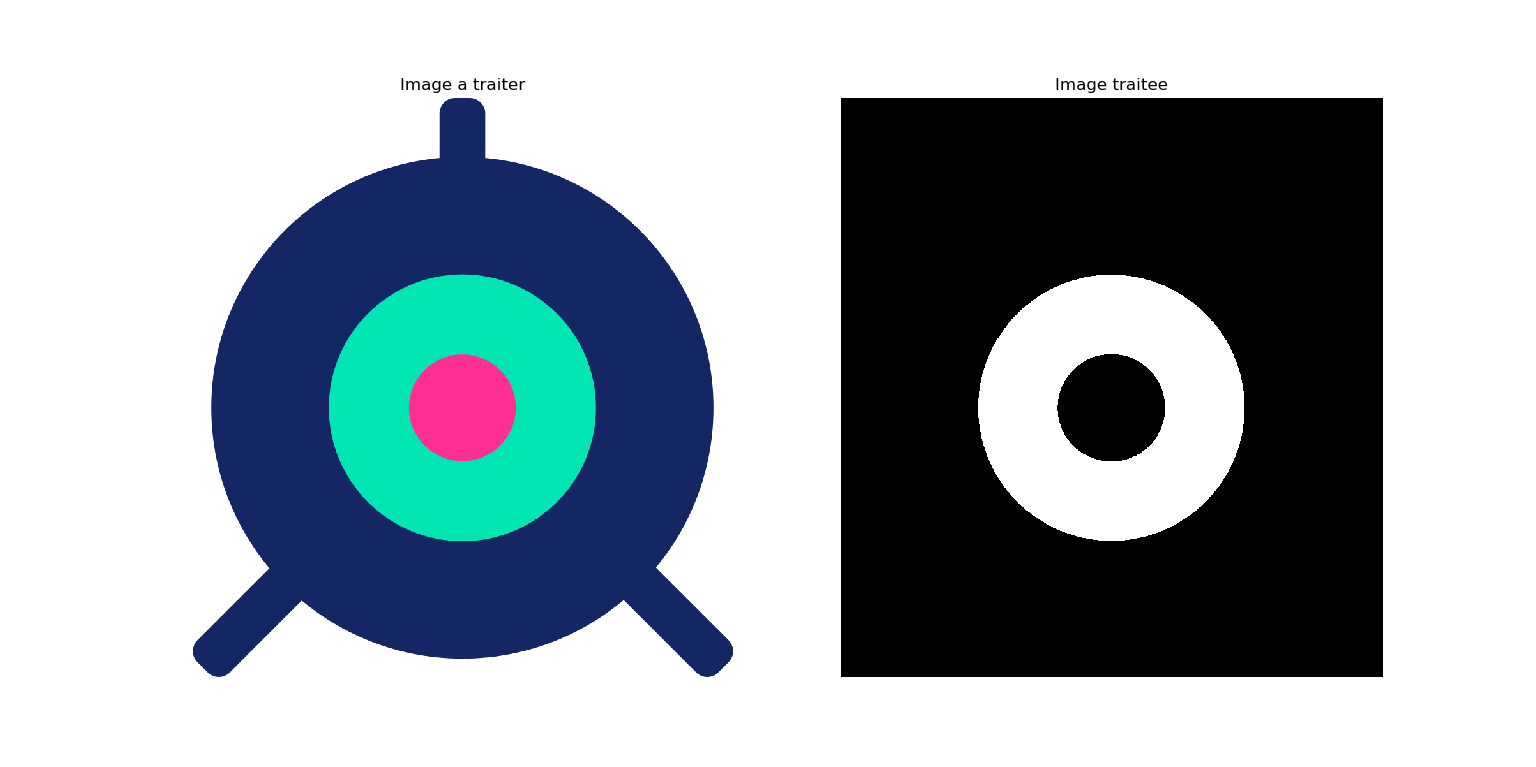
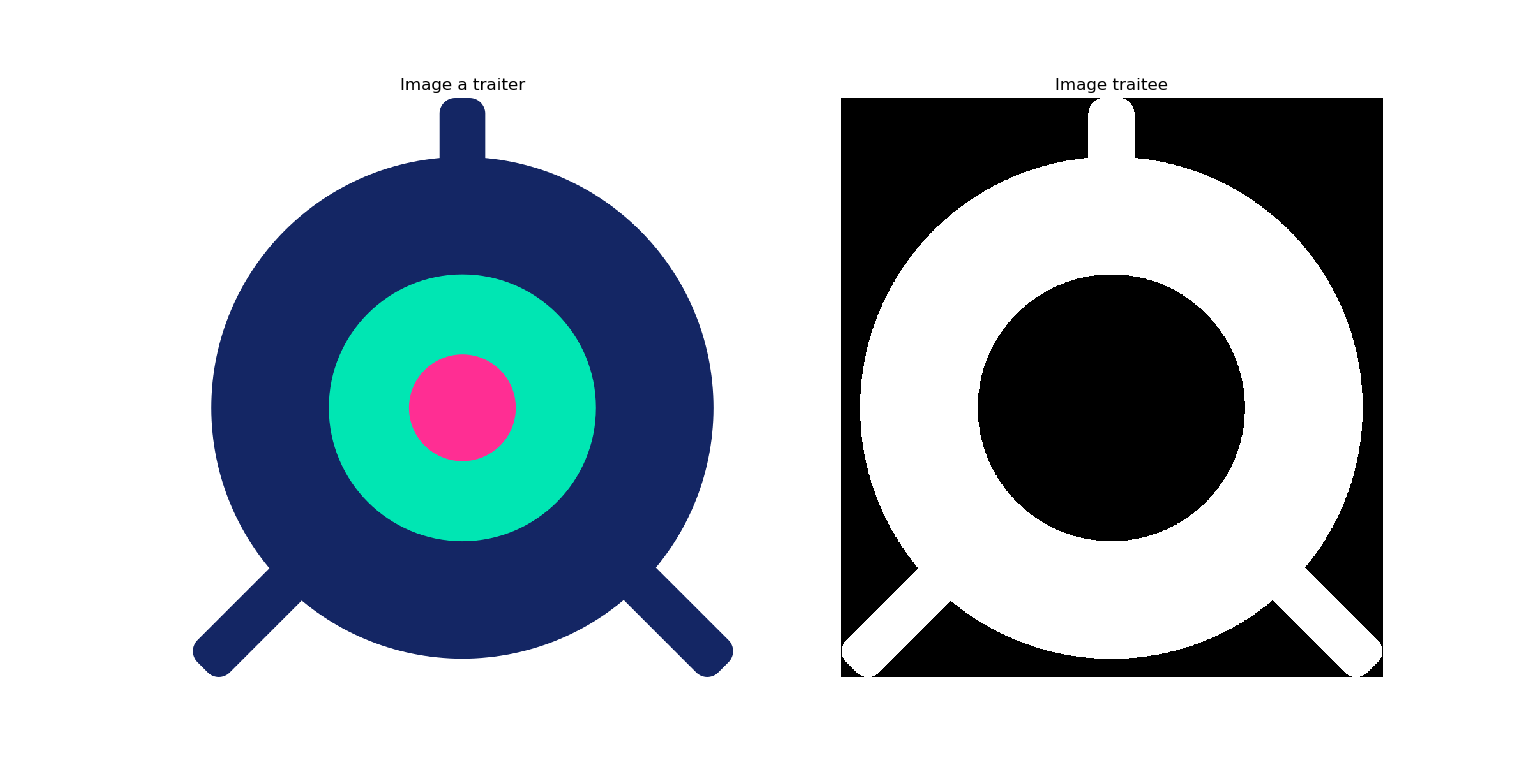
commit_3

Changed region(s): [[0.5312, 0.1199, 0.9062, 0.8996]]

diff --git a/Traitement d'image/src/algos_TOR.py b/Traitement d'image/src/algos_TOR.py
@@ -1,0 +1,54 @@
+import matplotlib.pyplot as mplot
+import numpy as np
+
+    # TOR_blue
+def TOR_blue(img):  # a, b, c, d : tolerance en RGBA
+    format = np.shape(img)
+    new_img = np.empty(format)
+    for i in range(format[0]):
+        for j in range(format[1]):
+            img_R = img[i, j, 0]
+            img_G = img[i, j, 1]
+            img_B = img[i, j, 2]
+            img_I = img[i, j, 3]
+            if ((img_R < 0.5) and (img_G < 0.5) and (img_B > 0) and (img_I > 0.2)):
+                new_img[i, j, 3] = 0
+            else:
+                new_img[i, j, 3] = 1
+    return new_img
+
+
+    # TOR_cyan
+def TOR_cyan(img):  # a, b, c, d : tolerance en RGBA
+    format = np.shape(img)
+    new_img = np.empty(format)
+    for i in range(format[0]):
+        for j in range(format[1]):
+            img_R = img[i, j, 0]
+            img_G = img[i, j, 1]
+            img_B = img[i, j, 2]
+            img_I = img[i, j, 3]
+            if ((img_R < 0.5) and (img_G < 1) and (img_B > 0.5) and (img_I > 0.8)):
+                new_img[i, j, 3] = 0
+            else:
+                new_img[i, j, 3] = 1
+    return new_img
+
+
+
+    # TOR_magenta
+def TOR_magenta(img):  # a, b, c, d : tolerance en RGBA
+    format = np.shape(img)
+    new_img = np.empty(format)
+    for i in range(format[0]):
+        for j in range(format[1]):
+            img_R = img[i, j, 0]
+            img_G = img[i, j, 1]
+            img_B = img[i, j, 2]
+            img_I = img[i, j, 3]
+            if ((img_R > 0.5) and (img_G < 0.3) and (img_B > 0.5) and (img_I > 0.8)):
+                new_img[i, j, 3] = 0
+            else:
+                new_img[i, j, 3] = 1
+    return new_img
+

diff --git a/Traitement d'image/src/fonction_test_image.py b/Traitement d'image/src/fonction_test_image.py
@@ -1,0 +1,44 @@
+# Imports
+import matplotlib.pyplot as mplot
+import numpy as np
+from algos_TOR import *
+
+# Choix de l'image a tester
+img = mplot.imread('./images/test.png')
+
+# Choix des algos
+new_img_1 = TOR_blue(img)
+new_img_2 = TOR_cyan(img)
+new_img_3 = TOR_magenta(img)
+
+# Affichage du test
+    # Affichage algo_1
+mplot.subplot(321)
+mplot.imshow(img)
+mplot.axis('off')
+mplot.title('Image a traiter')
+mplot.subplot(322)
+mplot.imshow(TOR_blue(img))
+mplot.axis('off')
+mplot.title('Image traitee via TOR_blue')
+
+    # Affichage algo_2
+mplot.subplot(323)
+mplot.imshow(img)
+mplot.axis('off')
+mplot.title('Image a traiter')
+mplot.subplot(324)
+mplot.imshow(TOR_cyan(img))
+mplot.axis('off')
+mplot.title('Image traitee via TOR_cyan')
+
+    # Affichage algo_3
+mplot.subplot(325)
+mplot.imshow(img)
+mplot.axis('off')
+mplot.title('Image a traiter')
+mplot.subplot(326)
+mplot.imshow(TOR_magenta(img))
+mplot.axis('off')
+mplot.title('Image traitee via TOR_magenta')
+mplot.show()

diff --git a/Traitement d'image/src/fonction_test_cam.py b/Traitement d'image/src/fonction_test_cam.py
@@ -1,0 +1,19 @@
+# Fonction permettant de tester le retour caméra
+
+import cv2
+#import matplotlib.pyplot as mplot
+#import numpy as np
+#from algos_TOR import *
+
+cam = cv2.VideoCapture(0)
+screen_name = 'Processed Cam'
+cv2.namedWindow('Processed Cam', cv2.WND_PROP_FULLSCREEN)
+while True:
+    ret, image = cam.read()
+    if ret:
+        cv2.imshow(screen_name, image)
+        if cv2.waitKey(25) & 0xFF == ord('q'):
+            break
+    else:
+        print('Aucun retour camera')
+        break
